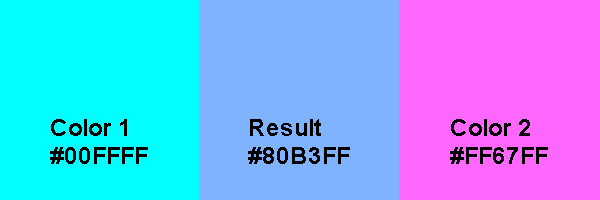
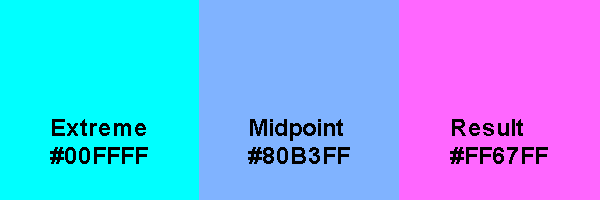
updated README

Changed region(s): [[0.42, 0.57, 0.57, 0.69], [0.09, 0.6, 0.24, 0.69], [0.75, 0.6, 0.9, 0.69]]

diff --git a/README.md b/README.md
@@ -9,17 +9,15 @@ For example, color blenders behave like this:
 
 Parameter 1 | Result   | Parameter 2 | Calculation
 ----------- | ------   | ----------- |:-----------
-Color 1     | Midpoint | Color 2     | `Result = midpoint(Color1,Color2)`
-White       | Gray     | Black       | `Gray   = midpoint(White , Black) = Gray`
+Color1      | Midpoint | Color2      | `Result = Midpoint = midpoint(Color1,Color2)`
 
 <img src="/README_images/colorBlenders.png" width="300" />
 
 However, colorJumper behaves like this:
 
-Parameter 1 | Parameter 2 | Result  | Calculation
------------ | ----------- | ------  |:-----------
-Color 1     | Midpoint    | Color 2 | `Result = Color2 such that Midpoint = midpoint(Color1,Color2)`
-White       | Gray        | Black   | `Result = Black  such that Gray     = midpoint(White , Black)`
+Parameter 1 | Parameter 2 | Result | Calculation
+----------- | ----------- | ------ |:-----------
+Color1      | Midpoint    | Color2 | `Result = Color2 such that Midpoint = midpoint(Color1,Color2)`
 
 <img src="/README_images/colorJumper.png" width="300" />
 
